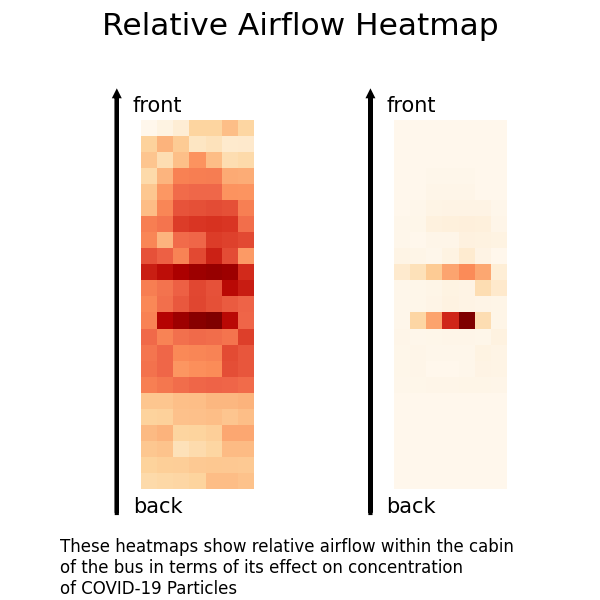
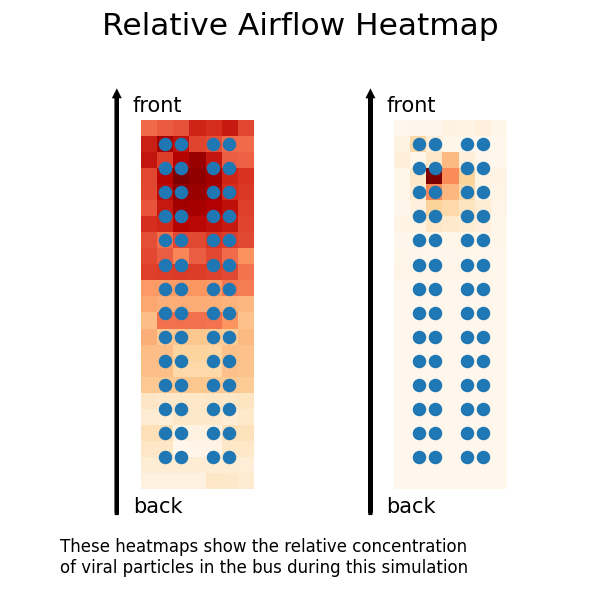
new

Changed region(s): [[0.21, 0.18, 0.45, 0.84], [0.66, 0.21, 0.84, 0.78], [0.09, 0.9, 0.87, 0.99]]

diff --git a/av.py b/av.py
@@ -79,7 +79,7 @@ class user_viz():
         '''
         # get seating type:
         temp = self.seat_var
-        print(temp, type(temp), 'temp')
+        # print(temp, type(temp), 'temp')
         if temp == "full":
             seat_dict = self.load_parameters('config/f_seating_full.json')
         else:
@@ -91,7 +91,7 @@ class user_viz():
                 print('error temp bad')
         # evaluate temp based on # students
         num_kids = self.students_var
-        print(num_kids, 'num_kids')
+        # print(num_kids, 'num_kids')
         temp_dict = {}
         for i in range(int(num_kids)):
             temp_dict[str(i)] = seat_dict[str(i)]
@@ -122,7 +122,7 @@ class user_viz():
         plt.yticks(np.arange(-.5, 23.5, 1))
         plt.grid(True)
         # plt.tick_params(axis='both', left='off', top='off', right='off', bottom='off', labelleft='off', labeltop='off', labelright='off', labelbottom='off')
-        plt.scatter(x=x_arr, y=y_arr)#, marker='_')
+        plt.scatter(x=x_arr, y=y_arr, s=5)#, marker='_')
         plt.xticks(c='w')
         plt.yticks(c='w')
         # plt.axis('off') # set axis to be blank
@@ -145,14 +145,14 @@ class user_viz():
         y_arr = []
         for i in seating.items():
             x_arr.append(i[1][1])
-            y_arr.append(i[1][0])
+            y_arr.append(i[1][0] * 1.5 + 1)
 
         rot = mpl.transforms.Affine2D().rotate_deg(180)
         fig = plt.figure()
         ax1 = fig.add_subplot(1, 2, 1)
         ax1.matshow(out_mat, cmap="OrRd", norm=mpl.colors.LogNorm())
         plt.arrow(-2,24,0,-26, head_width=0.2, head_length=0.2, fc='k', ec='k')
-        plt.scatter(x=x_arr, y=y_arr)
+        plt.scatter(x=x_arr, y=y_arr, s=5)
         plt.gcf().set_size_inches(2,2)
         # plt.suptitle('Relative Airflow Heatmap', fontsize=7.5)
         plt.annotate(xy=(-1, -1), text='front', fontsize=5)
@@ -163,14 +163,14 @@ class user_viz():
         ax2 = fig.add_subplot(1,2,2)
         ax2.matshow(out_mat, cmap="OrRd")#, norm=mpl.colors.LogNorm())
         plt.arrow(-2,24,0,-26, head_width=0.2, head_length=0.2, fc='k', ec='k')
-        plt.scatter(x=x_arr, y=y_arr)
+        plt.scatter(x=x_arr, y=y_arr, s=5)
         plt.gcf().set_size_inches(2,2)
         plt.suptitle('Relative Airflow Heatmap', fontsize=7.5)
         plt.annotate(xy=(-1, -1), text='front', fontsize=5)
         plt.annotate(xy=(-1, 24), text='back', fontsize=5)
         # log scale vs regular scale + 'be not afraid'
         plt.axis('off')
-        fig.text(.1, .01, 'These heatmaps show relative airflow within the cabin \nof the bus in terms of its effect on concentration \nof COVID-19 Particles', fontsize=4)
+        fig.text(.1, .01, 'These heatmaps show the relative concentration\nof viral particles in the bus during this simulation\n', fontsize=4)
         plt.savefig('results/relative_airflow.png', dpi=300)
 
         print('relative airflow complete!')
